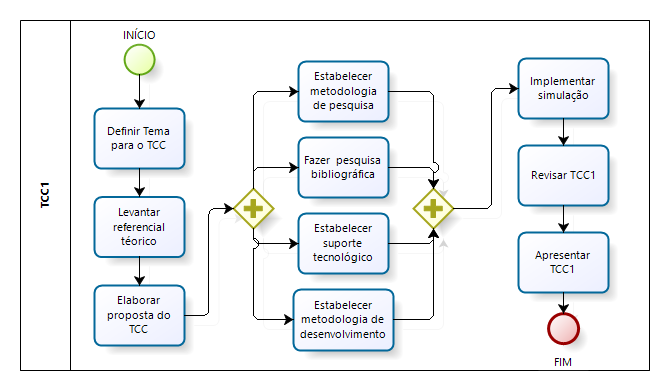
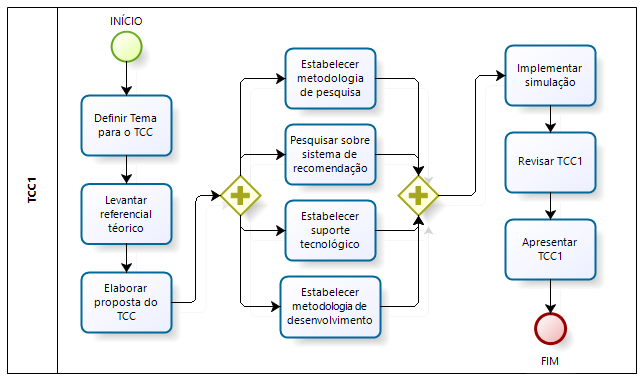
Updates from Overleaf

Changed region(s): [[0.0, 0.0, 0.9969, 0.9894], [0.0312, 0.4656, 0.0935, 0.5529]]

diff --git a/editaveis/proposta.tex b/editaveis/proposta.tex
@@ -56,7 +56,7 @@ Cada tarefa do fluxo de atividades do TCC1 (Figura \ref{fig:fluxo_atividade_tcc1
 
     \item \textbf{Estabelecer metodologia de pesquisa:} após o início do estudo do tema selecionado anteriormente, é possível definir quais metodologias de pesquisa serão usadas;
 
-    \item \textbf{Realizar pesquisa bibliográfica:} envolve a pesquisa de artigos, revistas e de trabalhos científicos da mesma área deste trabalho de forma detalhada para servir de fundamento para os objetivos acertados anteriormente;
+    \item \textbf{Pesquisar sobre sistema de recomendação:} envolve a pesquisa de artigos, revistas e de trabalhos científicos sobre sistema de recomendação de forma detalhada para servir de fundamento para os objetivos acertados anteriormente;
 
     \item \textbf{Estabelecer suporte tecnológico:} seleção das tecnologias que serão usadas para o desenvolvimento do trabalho;
 
@@ -162,6 +162,40 @@ Para obter um conhecimento inicial sobre o projeto, foram levantado as seguintes
         \item \textbf{FE02TS01 - Registrar ações do usuário no sítio virtual:} eu, como desenvolvedor, desejo registrar as ações do usuário no site para poder predizer quais são os imóveis mais prováveis da preferência do usuário.
     \end{itemize}
 \end{itemize}
+
+\subsection{Requisitos não funcionais}
+
+Foram selecionados os requisitos não funcionais do sistema de recomendação proposto em categorias. Foram escolhidas as consideradas mais importantes, que são elas: usabilidade, desempenho, segurança, disponibilidade, portabilidade e confiabilidade.
+
+\subsubsection{Usabilidade}
+
+No Sistema de recomendação haverá dois componentes na plataforma \textit{web} Liva. Ambos possuindo um design atrativo para intrigar o usuário ao uso, e também responsivo para poder ser visualizado em qualquer tela, independente do dispositivo ser um computador, \textit{smartphone} ou \textit{tablet}. Deverá ser também intuitivo, contendo ícones para cada atributo do imóvel, instrução de como utilizar, mensagem informativa de sucesso, falha ou redirecionamento de página e botões de aumento e diminuição da quantidade numérica nos campos do formulário.
+
+\subsubsection{Desempenho}
+
+No modulo de Aprendizado de Máquina, devido ao alto volume de dados e processamentos demandados do treino e predição do modelo, na qual é necessário ser processado em menos de 10 segundos para o usuário, são demandadas instancias de servidores adequadas ao contexto. Para isso a instancia a ser escolhida deverá ter os seguintes recursos computacionais:
+
+\begin{itemize}
+    \item 2 Unidades de vCPU
+    \item 8 gigas de memória ram
+    \item 20 gigas de espaço em disco (crescendo horizontalmente se necessário)
+\end{itemize}
+
+\subsubsection{Segurança}
+
+A API do sistema poderá ser acessada por sistemas externos de domínio da Liva. Este acesso deve ser seguro, com autenticação em nível do servidor e em nível da aplicação. Os usuários devem ter conta na plataforma da Liva, para assim, terem acesso as funcionalidades do sistema de recomendação.
+
+\subsubsection{Disponibilidade}
+
+O Sistema de recomendação precisa funcionar 24 x 7 (vinte e quatro horas por dia, sete dias por semana) na operação da Liva, pois há constantemente clientes acessando o sistema. Dessa forma é necessário que a infraestrutura suporte esse período e cressa horizontalmente em seus recursos de acordo com o que é demandado, para assim se manter sempre de pé.
+
+\subsubsection{Portabilidade}
+
+O sistema proposto deverá rodar nos navegadores mais populares, como: Mozilla Firefox, Google Chrome, Microsoft Edge e Opera. Navegadores mais antigos como o Internet Explorer podem sofrer de estabilidade na utilização do site, por não haver suporte com ES5 que é requisito da tecnologia da plataforma.
+
+\subsubsection{Confiabilidade}
+
+O Sistema de recomendação deve ser um sistema eficiente que apresente sempre as recomendações mais adequada possíveis, sendo representantes de seu perfil. Dessa forma o modelo de Aprendizado de Máquina deve apresentar boas métricas de qualidade, e assim apresentar boas recomendações, fazendo os clientes se sentirem com mais confiança em relação ao sistema.
 
 \subsection{Papéis}
 

diff --git a/editaveis/referencial_teorico.tex b/editaveis/referencial_teorico.tex
@@ -321,7 +321,7 @@ Os sistemas de recomendação baseados em crítica dão suporte a três tipos pr
 
 Chen e Pu (\citeyear{Chen:2012}) descreve \textit{example-critiquing} (crítica de exemplo) como um tipo de sistema que consiste na interface do usuário e uma ferramenta de busca. Inicialmente, um usuário inicia sua busca especificando sua preferência por meio de uma área de consulta. Cada preferência é composta por valores de atributos e um peso atribuído a esse atributo, geralmente, chamado de “importância”. Para a geração da recomendação é utilizado um modelo de preferência baseado em MAUT.
 
-Segundo Keeney and Raiffa (1976) conforme citado por Chen e Pu (\citeyear{Chen:2012}), MAUT ou teoria da utilidade de atributos múltiplos, é uma teoria que leva em consideração preferências de valor conflitantes e produz uma pontuação para cada item. Chen and Pu (2007) , conforme citado por Kasamani (\citeyear{Kasamani:2017}), definem um modelo de preferência como o par \((V_1, ..., V_n, w_1, ..., w_n)\) onde \(V_1\) é o valor função e \(w_i\) o peso para cada atributo \(A_i\). A utilidade de cada item \((a_1, a_2, ..., a_n)\) pode ser computada utilizando a função de utilidade como mostrada na equação \eqref{funcaoUtilidade}.
+Segundo Keeney and Raiffa (1976) conforme citado por Chen e Pu (\citeyear{Chen:2012}), MAUT ou teoria da utilidade de atributos múltiplos, é uma teoria que leva em consideração preferências de valor conflitantes e produz uma pontuação para cada item. Chen and Pu (2007), conforme citado por Kasamani (\citeyear{Kasamani:2017}), definem um modelo de preferência como o par \((V_1, ..., V_n, w_1, ..., w_n)\) onde \(V_1\) é o valor função e \(w_i\) o peso para cada atributo \(A_i\). A utilidade de cada item \((a_1, a_2, ..., a_n)\) pode ser computada utilizando a função de utilidade como mostrada na equação \eqref{funcaoUtilidade}.
 
 \begin{equation}
     \label{funcaoUtilidade}

diff --git a/editaveis/informacoes.tex b/editaveis/informacoes.tex
@@ -4,7 +4,7 @@
 
 % Dados do trabalho
 \titulo{Sistema de recomendação híbrido para \textit{e-commerce} imobiliário}
-\data{2019}
+\data{2020}
 \palavraChaveUm{Sistema de recomendação}
 \palavraChaveDois{\textit{machine learning}}
 
@@ -15,6 +15,6 @@
 \cdu{02:141:005.6}
 
 % Dados da aprovação do trabalho
-%\dataDaAprovacao{09 de dezembro de 2019 -- Data da aprovação do trabalho}
+%\dataDaAprovacao{09 de julho de 2020 -- Data da aprovação do trabalho}
 \membroConvidadoUm{Prof. Dr. André Barros de Sales}
 \membroConvidadoDois{Prof. Dr. Renato Coral Sampaio}
